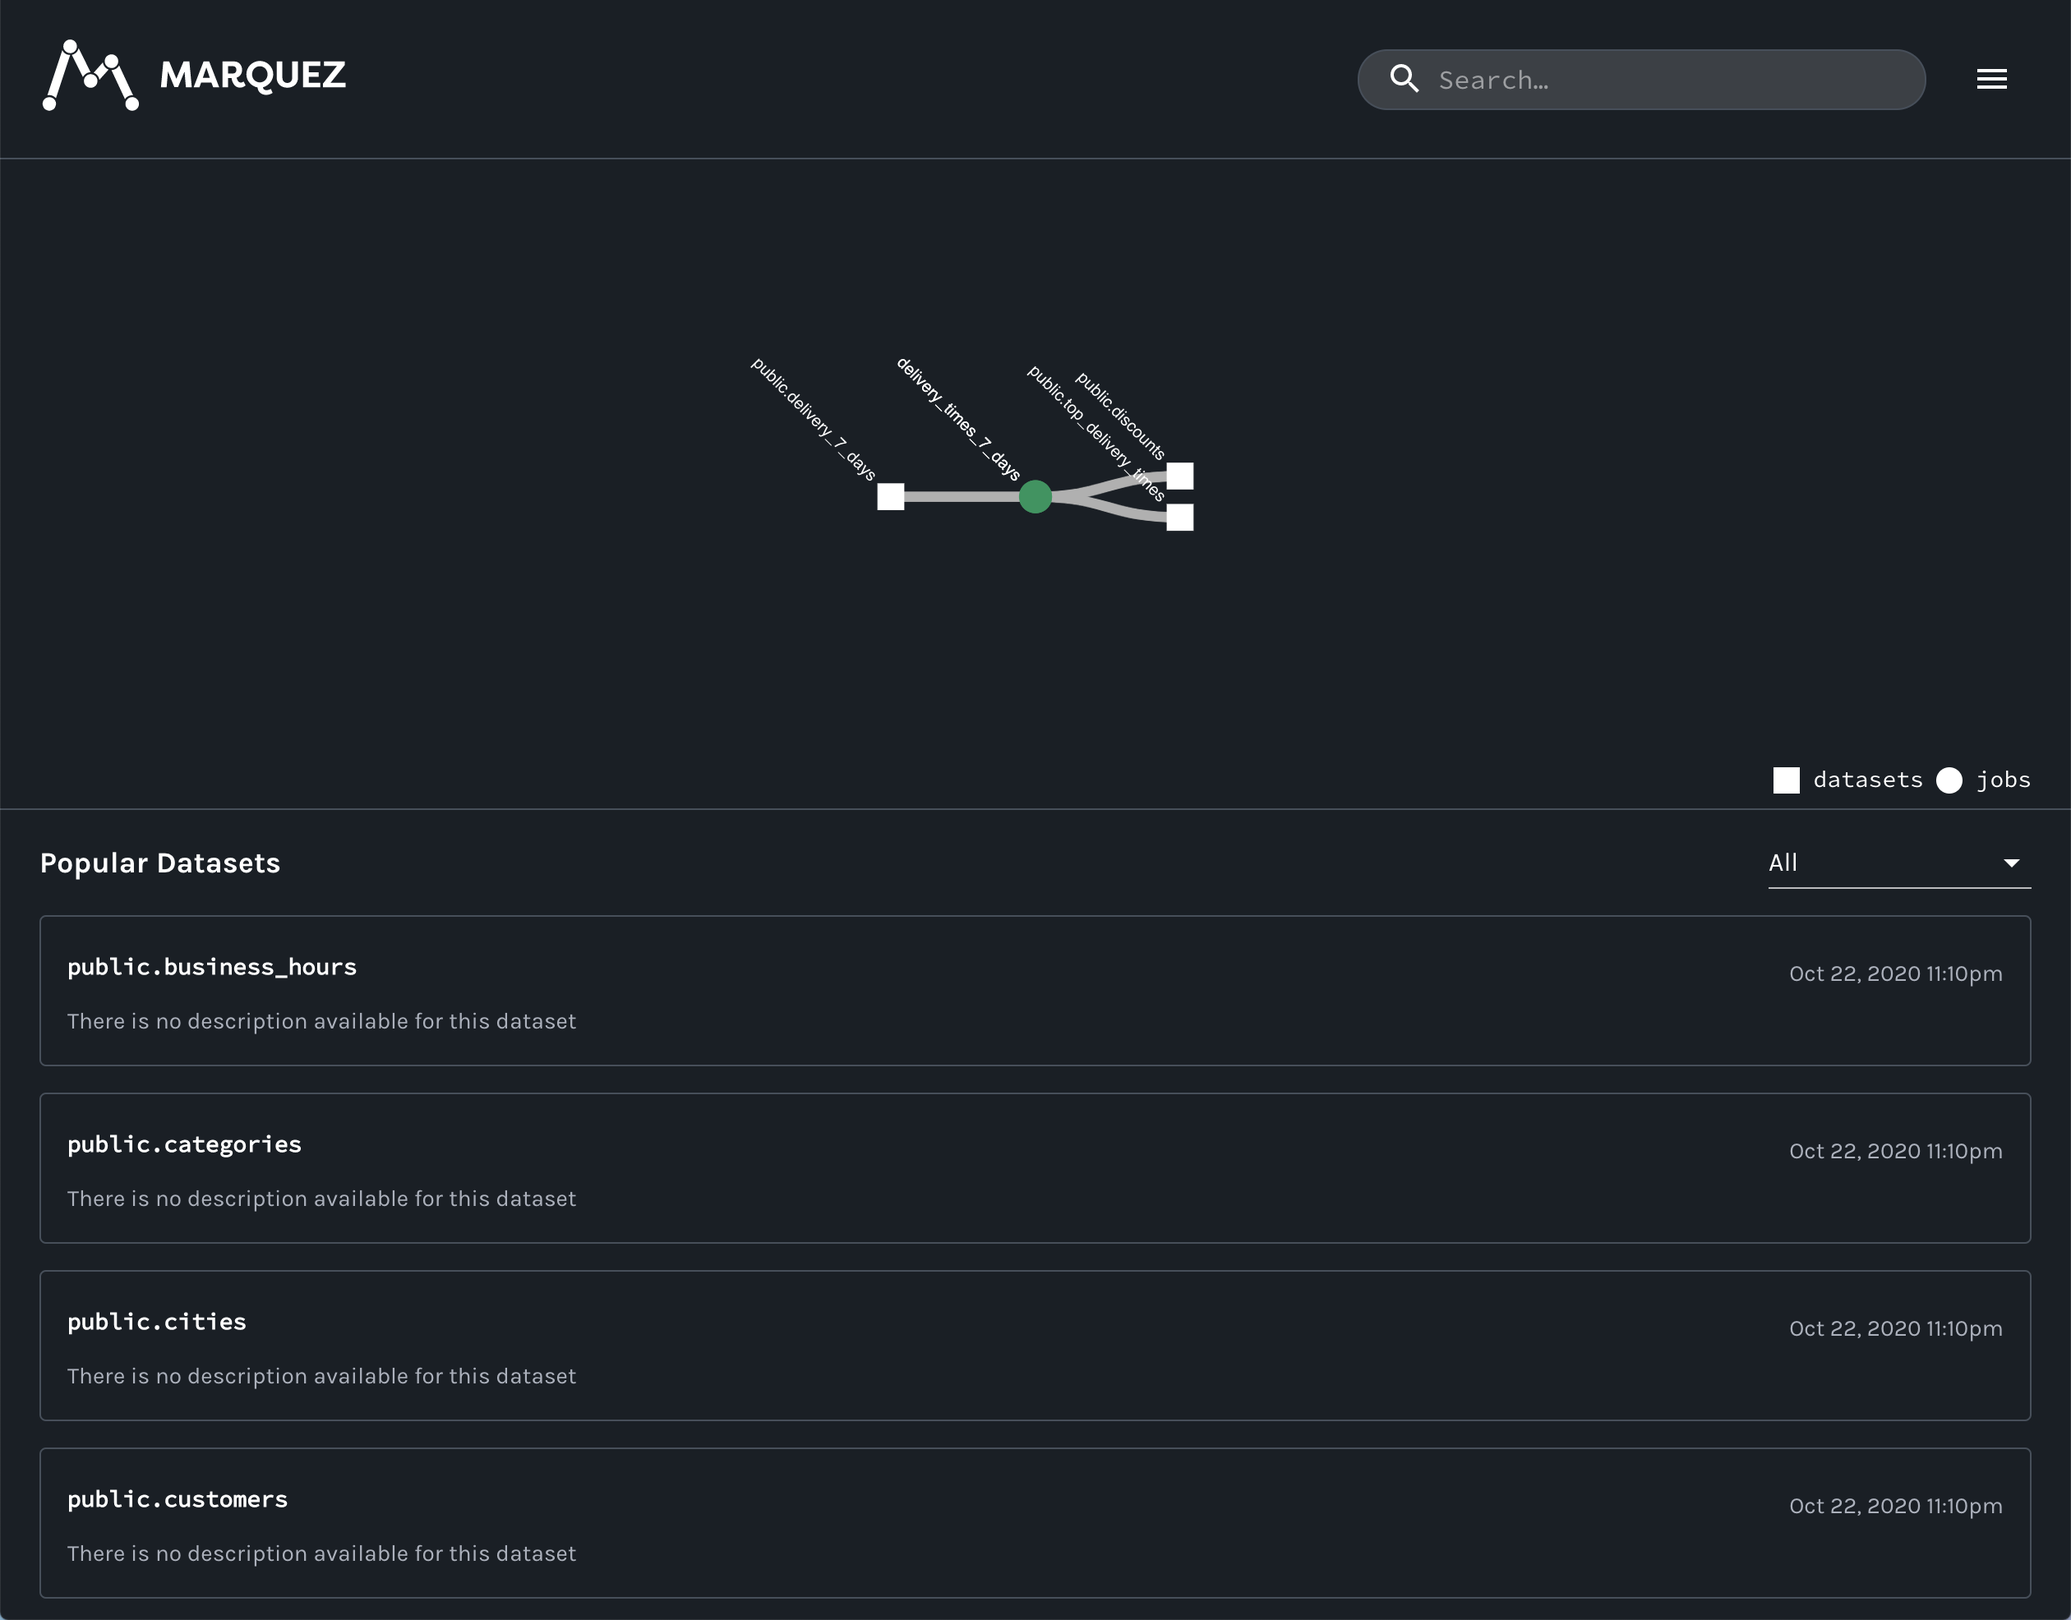
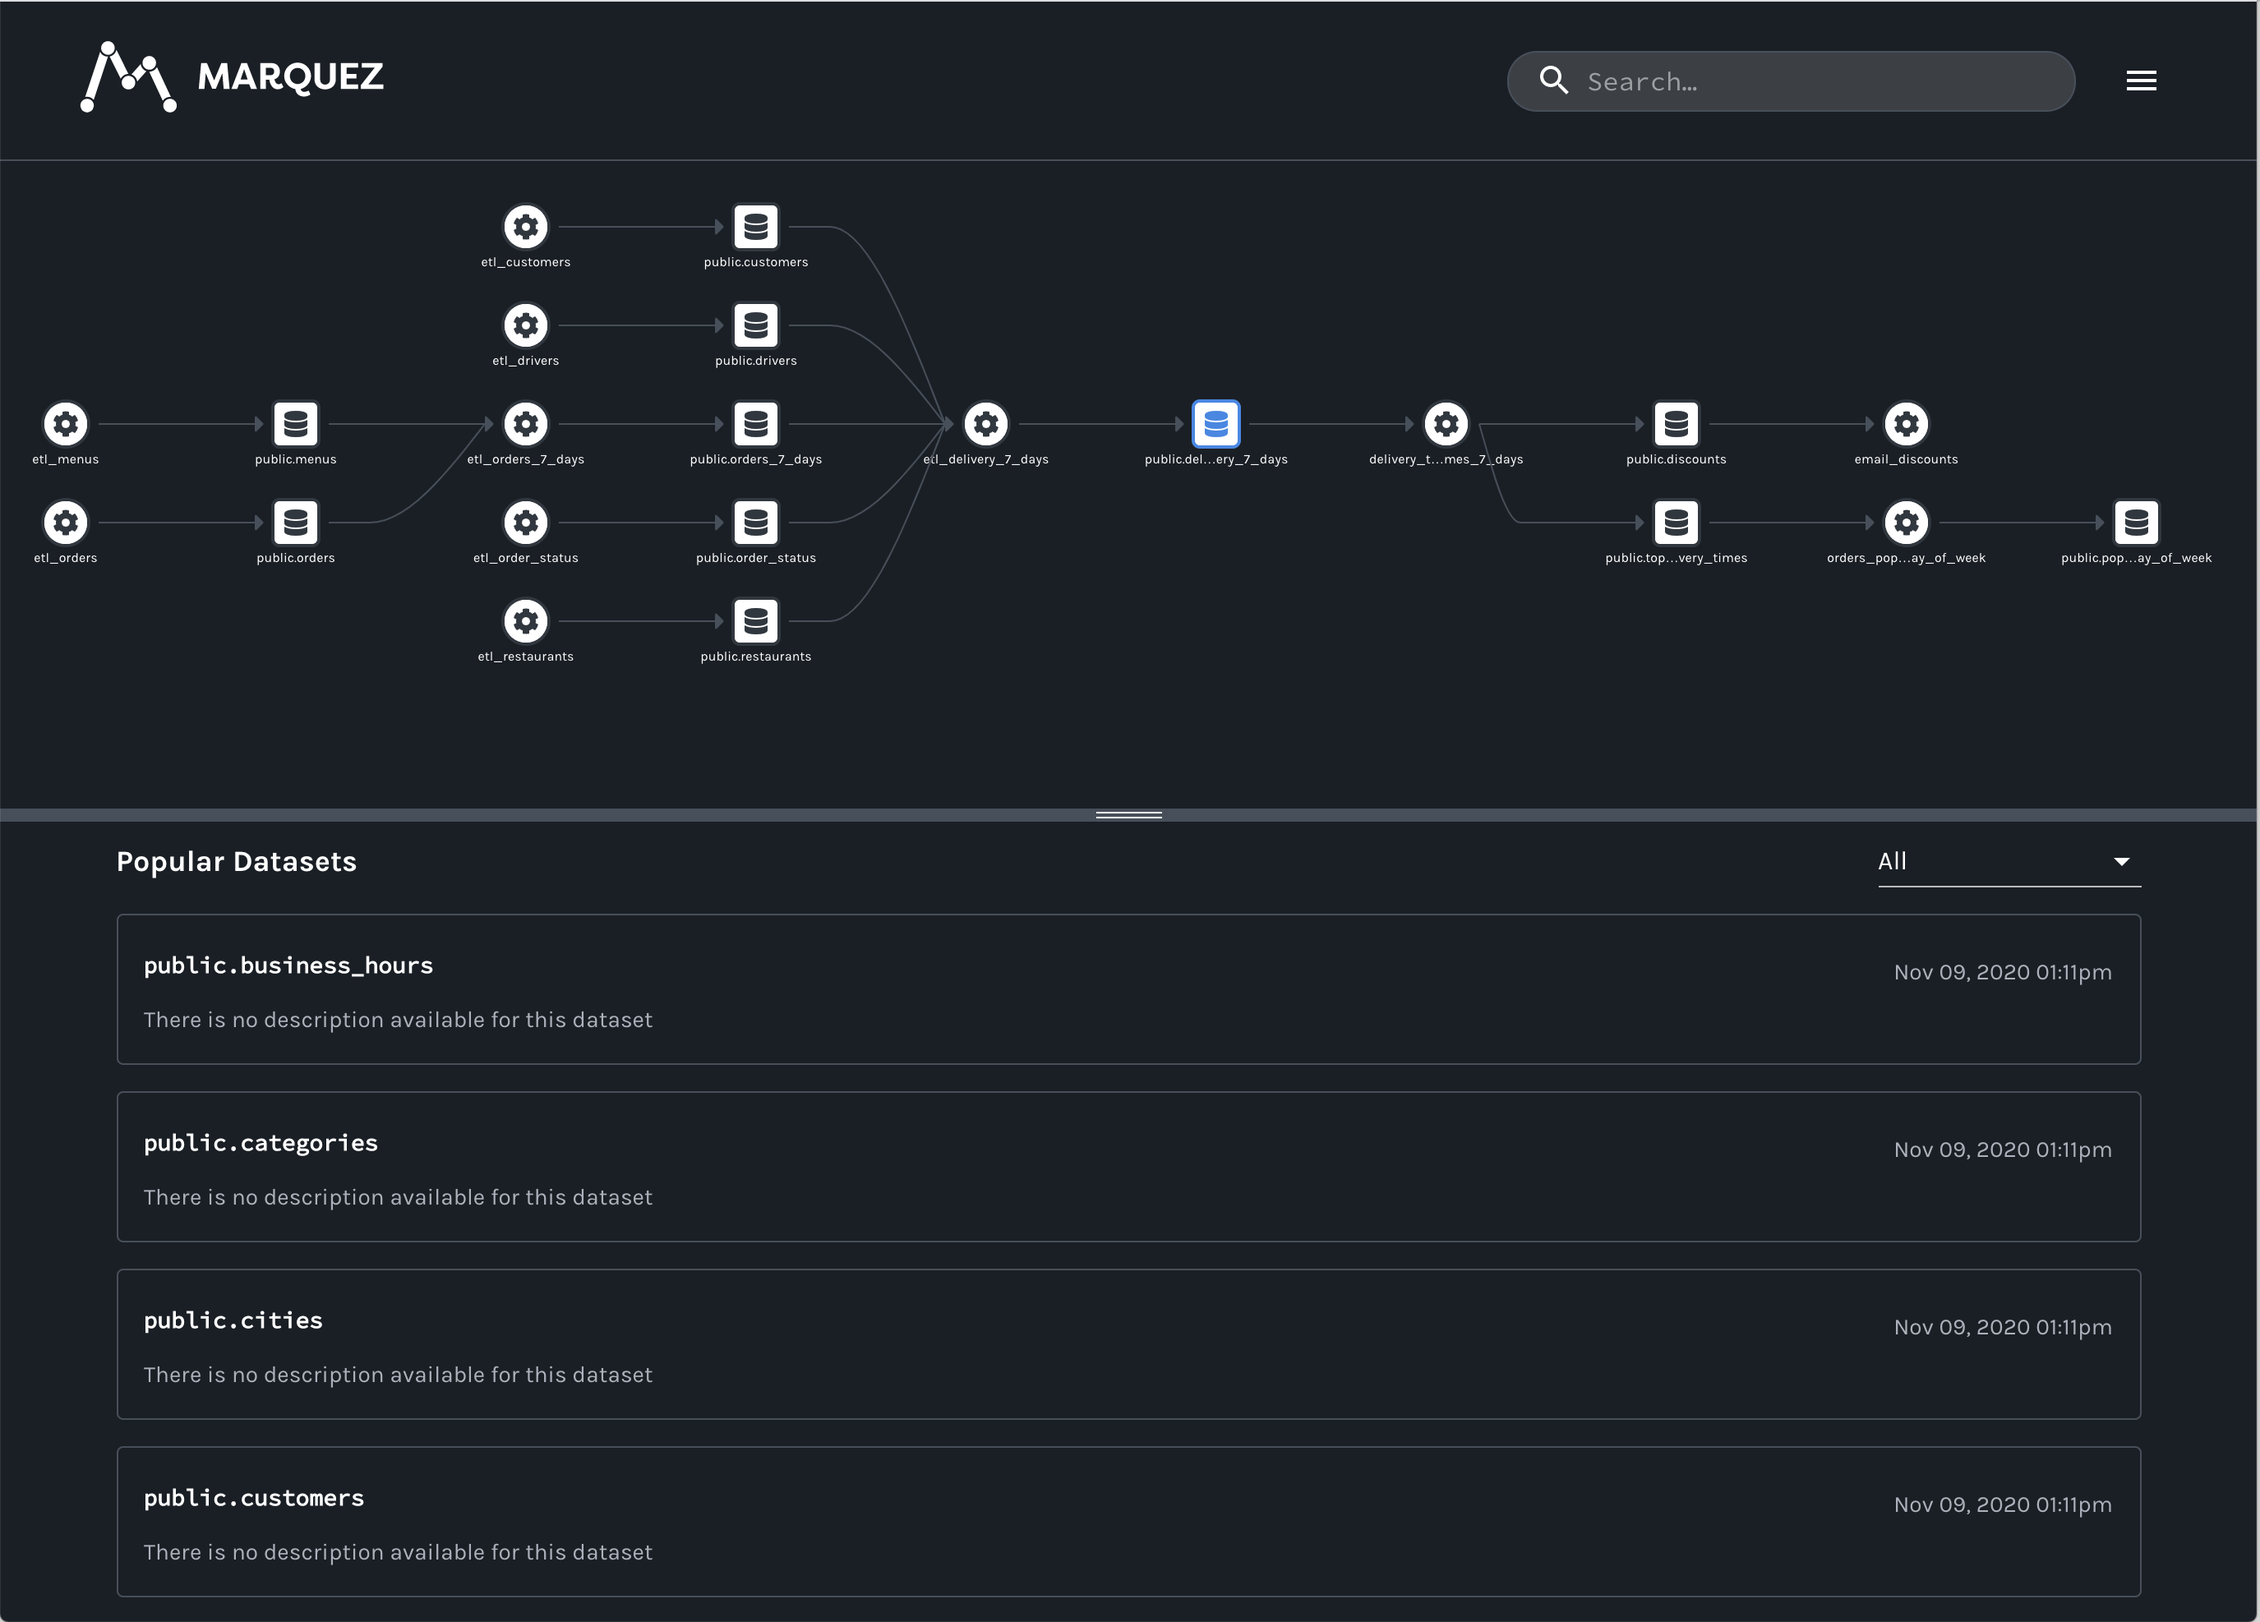
Update preview.png for release 0.7.0 (#127)
* Remove 'Data Kit' from title

* Update preview.png for 0.7.0 release

diff --git a/src/components/App.tsx b/src/components/App.tsx
@@ -31,7 +31,7 @@ const store = createStore(
 
 sagaMiddleware.run(rootSaga)
 
-const TITLE = 'Marquez | Data Kit'
+const TITLE = 'Marquez'
 
 const App = (): ReactElement => {
   const [showJobs, setShowJobs] = useState(false)
